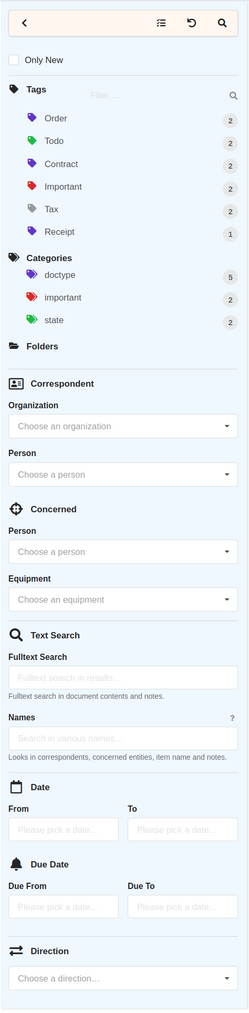
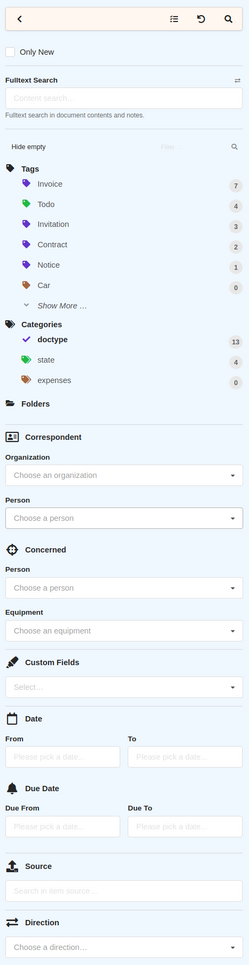
Update documentation

diff --git a/website/site/content/docs/webapp/finding.md b/website/site/content/docs/webapp/finding.md
@@ -67,6 +67,20 @@ Clicking the checkbox "Only new" shows items that have not been
 "Confirmed". All items that have been created by docspell and not
 looked at are marked as "new" automatically.
 
+## Fulltext and Name Search
+
+You can choose tags or correspondents in the search menu and further
+restrict the results using full text search with the *content* field.
+
+If this is the only filled field, then a normal fulltext search is
+done. It is exactly the same as filling out the *Contents Only* search
+bar. However, if some other fields are also set, then first a search
+using all other fields is done and these results are then further
+constraint by a fulltext search.
+
+You can switch to "Name Search" using the little icon on the right.
+This will then only search in item names and notes.
+
 ## Tags & Tag Categories
 
 Click on a tag to show only items with this tag, the tag is marked
@@ -121,25 +135,12 @@ Pick a correspondent to show only these items.
 
 Pick a concerned entity to show only these items.
 
-## Names
+## Custom Fields
 
-Searches in names of certain properties. The `Names` field is the same
-as the search in the search bar ([see above](#names)).
+You can choose one or more custom field to search for. You can use
+wildcards (`*`) at the beginning and/or end of a search term, too. To
+find items that have any value, use a single `*`.
 
-## Content
-
-You can choose tags or correspondents in the search menu and further
-restrict the results using full text search with the *content* field.
-
-{% infobubble(mode="warning", title="Please note") %}
-This field is intended to be used in conjunction with other fields in
-the search menu. It *may be really slow* if used alone, since first
-the database query is executed and its results are further constrained
-by fulltext search.
-
-Use the search-bar with option *Contents Only* to do quick fulltext
-searches.
-{% end %}
 
 ## Date
 

diff --git a/website/site/content/docs/webapp/scanmailbox.md b/website/site/content/docs/webapp/scanmailbox.md
@@ -51,6 +51,13 @@ deleted and not moved to your trash folder*. If both options are off,
 nothing happens with that mail, it simply stays (and could be re-read
 on the next run).
 
+Be careful when mails are neither moved nor deleted after processing.
+They could be selected anew in the next run, meaning that the job can
+not progress, because it filters out the same mails all the time. You
+can however, simply schedule the task in an interval >= the `Received
+Since Hours` setting.
+
+
 ## Filtering
 
 The following properties allow to filter mails that are imported.
@@ -110,6 +117,20 @@ be written in a shorter way using a repetition value. It is written
 like this: `1/7` which is the same as a list with `1` and all
 multiples of `7` added to it. In other words, it matches `1`, `1+7`,
 `1+7+7`, `1+7+7+7` and so on.
+
+# Configuraion
+
+The admin can tweak some properties in the config file at
+`docspell.joex.user-tasks.scan-mailbox`:
+
+- `max-folders`: Maximum number of folders to scan. This sets a hard
+  limit on the folder selection of the user settings.
+- `mail-chunk-size`: the batch size to use when fetching mails; after
+  this many mails have been processed, the connection is
+  re-established to get the next `mail-chunk-size` mails.
+- `max-mails`: the maximum amount of mails to process in one job run.
+  If the mailbox contains more than this amount of mails, it must be
+  waited for the next scheduled executon.
 
 
 # Reading Mails twice / Duplicates

diff --git a/website/site/content/docs/feed/_index.md b/website/site/content/docs/feed/_index.md
@@ -32,7 +32,7 @@ This requires to login at the webapp. Since this is complicated from
 other applications, you can create custom hard-to-guess endpoints to
 use with the following options.
 
-# Watch Directories
+# Scanners / Watch Directories
 
 If you have a (document) scanner (or think about getting one), it can
 usually be configured to place scanned documents as image or PDF files
@@ -44,6 +44,12 @@ you can organize the files as you want in there (rename, move etc).
 
 The scanner should support 300dpi for better results. Docspell
 converts the files into PDF adding a text layer of image-only files.
+
+Check out
+[scanadf2docspell](https://github.com/eresturo/scanadf2docspell) if
+your scanner is connected to your computer. This can create nice pdf
+files from scanners with ADF, applying corrections and sending them to
+docspell.
 
 {{ buttonright(classes="is-primary ", href="/docs/tools/consumedir", text="More") }}
 

diff --git a/website/site/content/docs/webapp/notifydueitems.md b/website/site/content/docs/webapp/notifydueitems.md
@@ -12,6 +12,8 @@ list of items, sorted by their due date.
 You need first define smtp settings, please see [this
 page](@/docs/webapp/emailsettings.md#smtp-settings).
 
+## Settings
+
 Notifying works simply by searching for due items periodically. It
 will be submitted to the job queue and is picked up by an available
 [job executor](@/docs/joex/_index.md) eventually. This can be setup in
@@ -72,3 +74,9 @@ periodically.
 
 You can see the task executing at the [processing
 page](@/docs/webapp/processing.md).
+
+
+## Configuration
+
+The part `docspell.joex.send-mail.list-id` can be used to add a
+`List-Id` mail header to every notification mail.

diff --git a/website/site/content/docs/webapp/customfields.md b/website/site/content/docs/webapp/customfields.md
@@ -113,8 +113,8 @@ Then you can set values that are matched against your items.
 </div>
 
 Values are also validated in the search form. Only valid values are
-sent to the server for searching. For most fields you can use a
-wildcard at beginning and/or end to do a substring match:
+sent to the server for searching. There is one exception: you can use
+a wildcard at beginning and/or end to do a substring match:
 
 {{ figure(file="custom-fields-07.png") }}
 
@@ -126,3 +126,5 @@ this is text-based matching.
     {{ figure(file="custom-fields-08.png") }}
     </div>
 </div>
+
+Using a single `*` allows to find items that have any value set.

diff --git a/website/site/content/docs/webapp/itemcard-customize.md b/website/site/content/docs/webapp/itemcard-customize.md
@@ -28,7 +28,7 @@ The item preview is an image of the first page of the first
 attachment. You can change the order of attachments in the item detail
 view. This image has a predefined size, which is specified [docspell's
 configuration](@/docs/configure/_index.md#joex) (see
-`extraction.preview.dpi`). The size used to display it, can be
+`extraction.preview.dpi`). The size for displaying it, can be
 specified via this setting. A _small_ preview uses about 80px width, a
 _medium_ one 160px and _large_ means to use the available space in the
 card.

diff --git a/website/site/content/docs/install/running.md b/website/site/content/docs/install/running.md
@@ -64,3 +64,12 @@ $ ./docspell-restserver*/bin/docspell-restserver -h
 ```
 
 gives an overview of supported options.
+
+It is recommended to run joex with 1.5G heap space or more and with
+the G1GC enabled. If you use java8, you need to add an option to use
+G1GC, for java11 this is not necessary (but doesn't hurt either). This
+could look like this:
+
+```
+./docspell-joex-{{version()}}/bin/docspell-joex -J-Xmx1596M -J-XX:+UseG1GC -- /path/to/joex.conf
+```

diff --git a/website/site/content/docs/webapp/metadata.md b/website/site/content/docs/webapp/metadata.md
@@ -18,6 +18,7 @@ known meta data. The *Meta Data* page allows to manage this meta data:
 - Persons
 - Equipments
 - Folders
+- Custom Fields
 
 ## Tags
 
